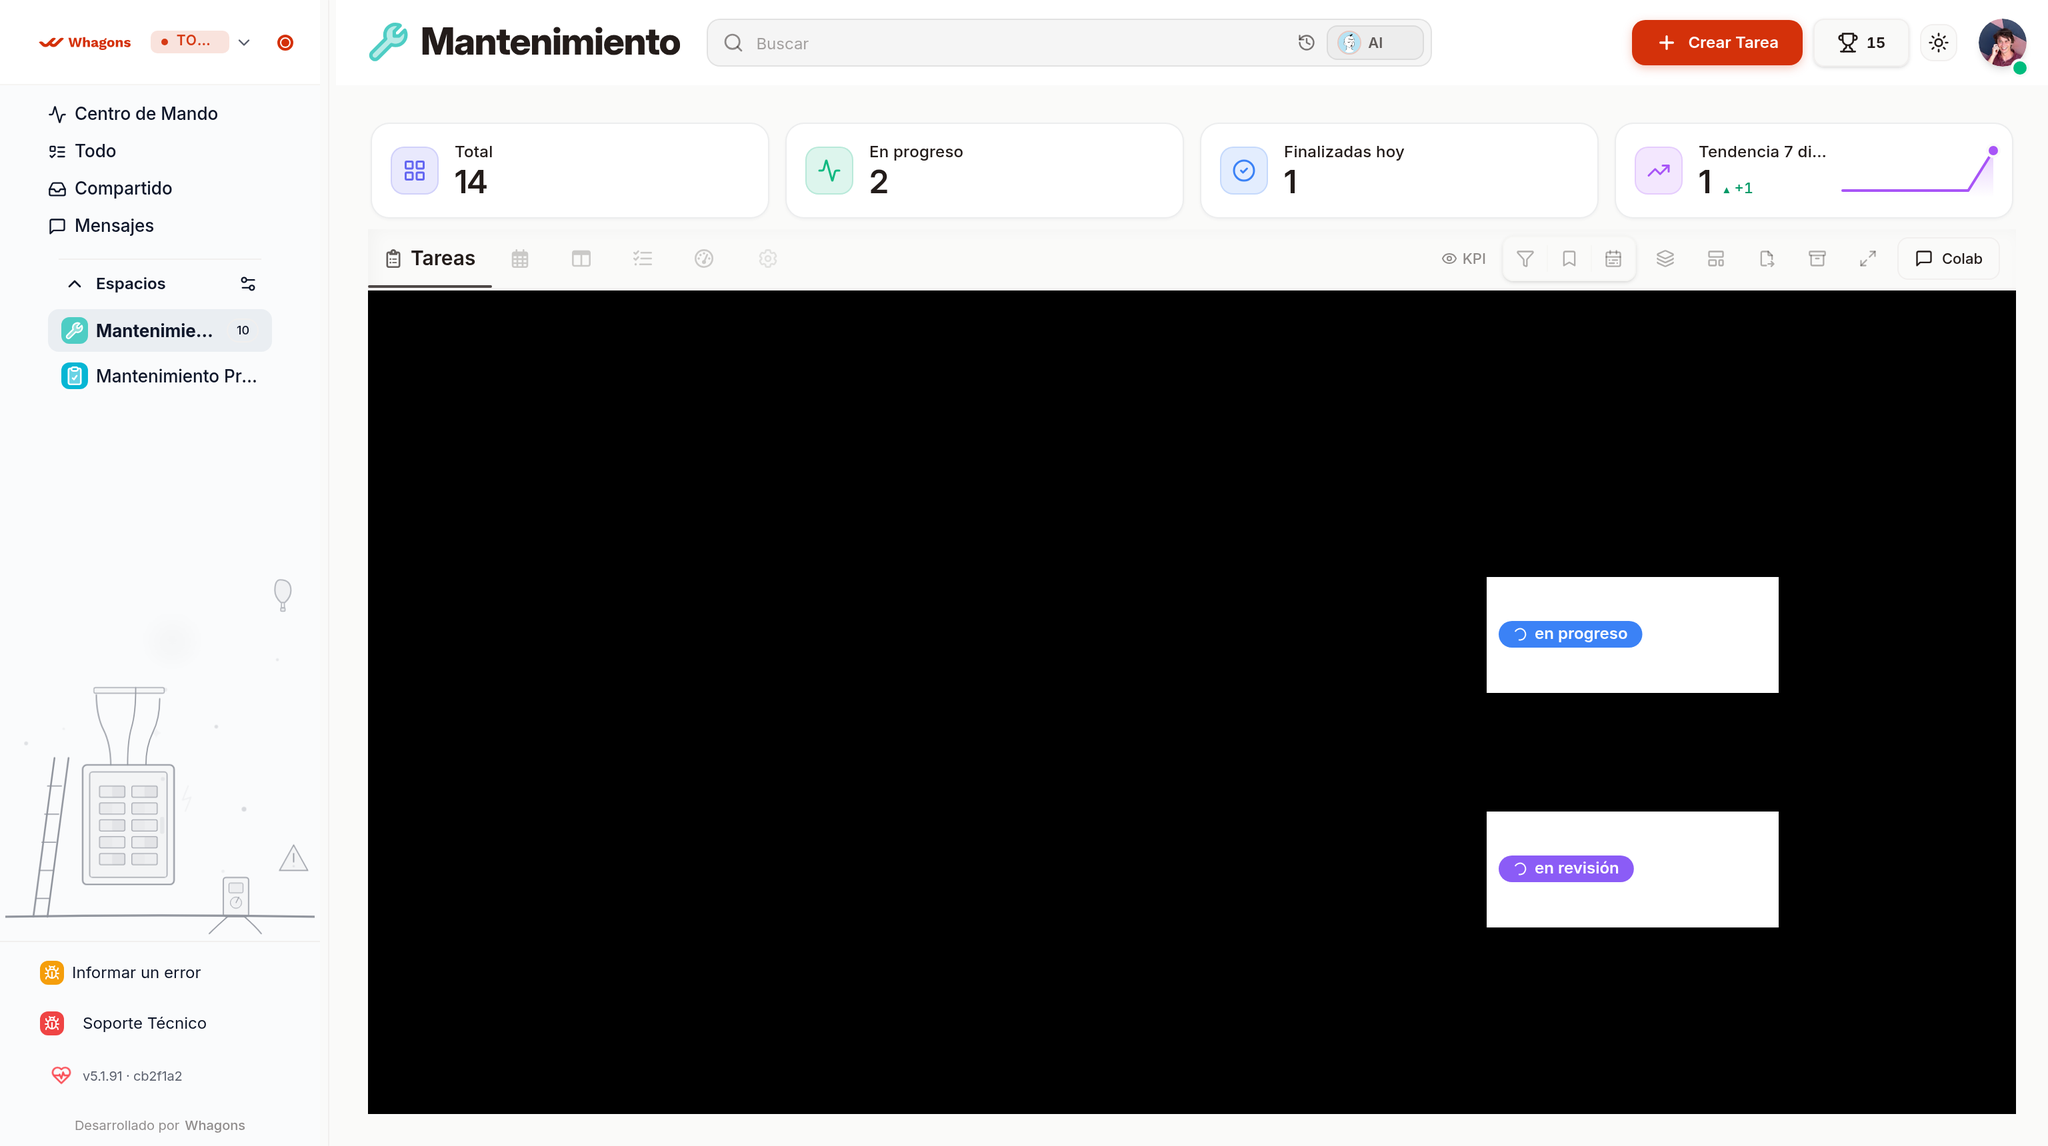
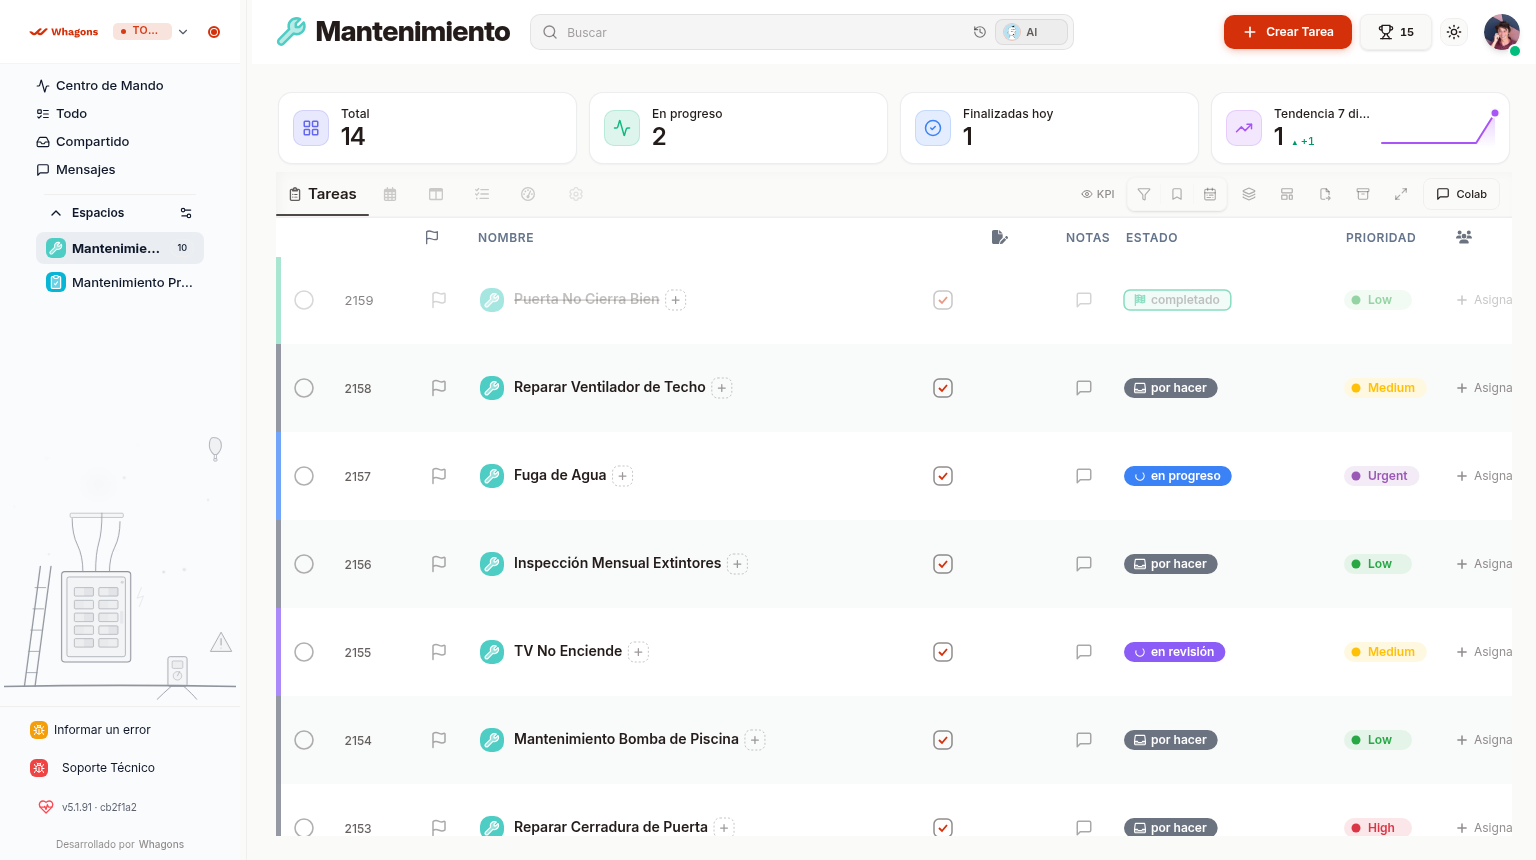
Use the 1x task grid capture (2x capture had a blank canvas)

diff --git a/app/components/home/HomePage.tsx b/app/components/home/HomePage.tsx
@@ -243,7 +243,7 @@ export default function HomePage({ lang }: { lang: Language }) {
         </div>
         <figure className={styles.shot}>
           <div className={styles.shotBar} aria-hidden="true"><i /><i /><i /><span>{t.heroShotCaption}</span></div>
-          <Image src="/images/demo-task-grid.png" alt={t.heroShotAlt} width={2048} height={1146} priority sizes="(max-width: 1240px) 100vw, 1180px" />
+          <Image src="/images/demo-task-grid.png" alt={t.heroShotAlt} width={1536} height={860} priority sizes="(max-width: 1240px) 100vw, 1180px" />
         </figure>
       </section>
 
